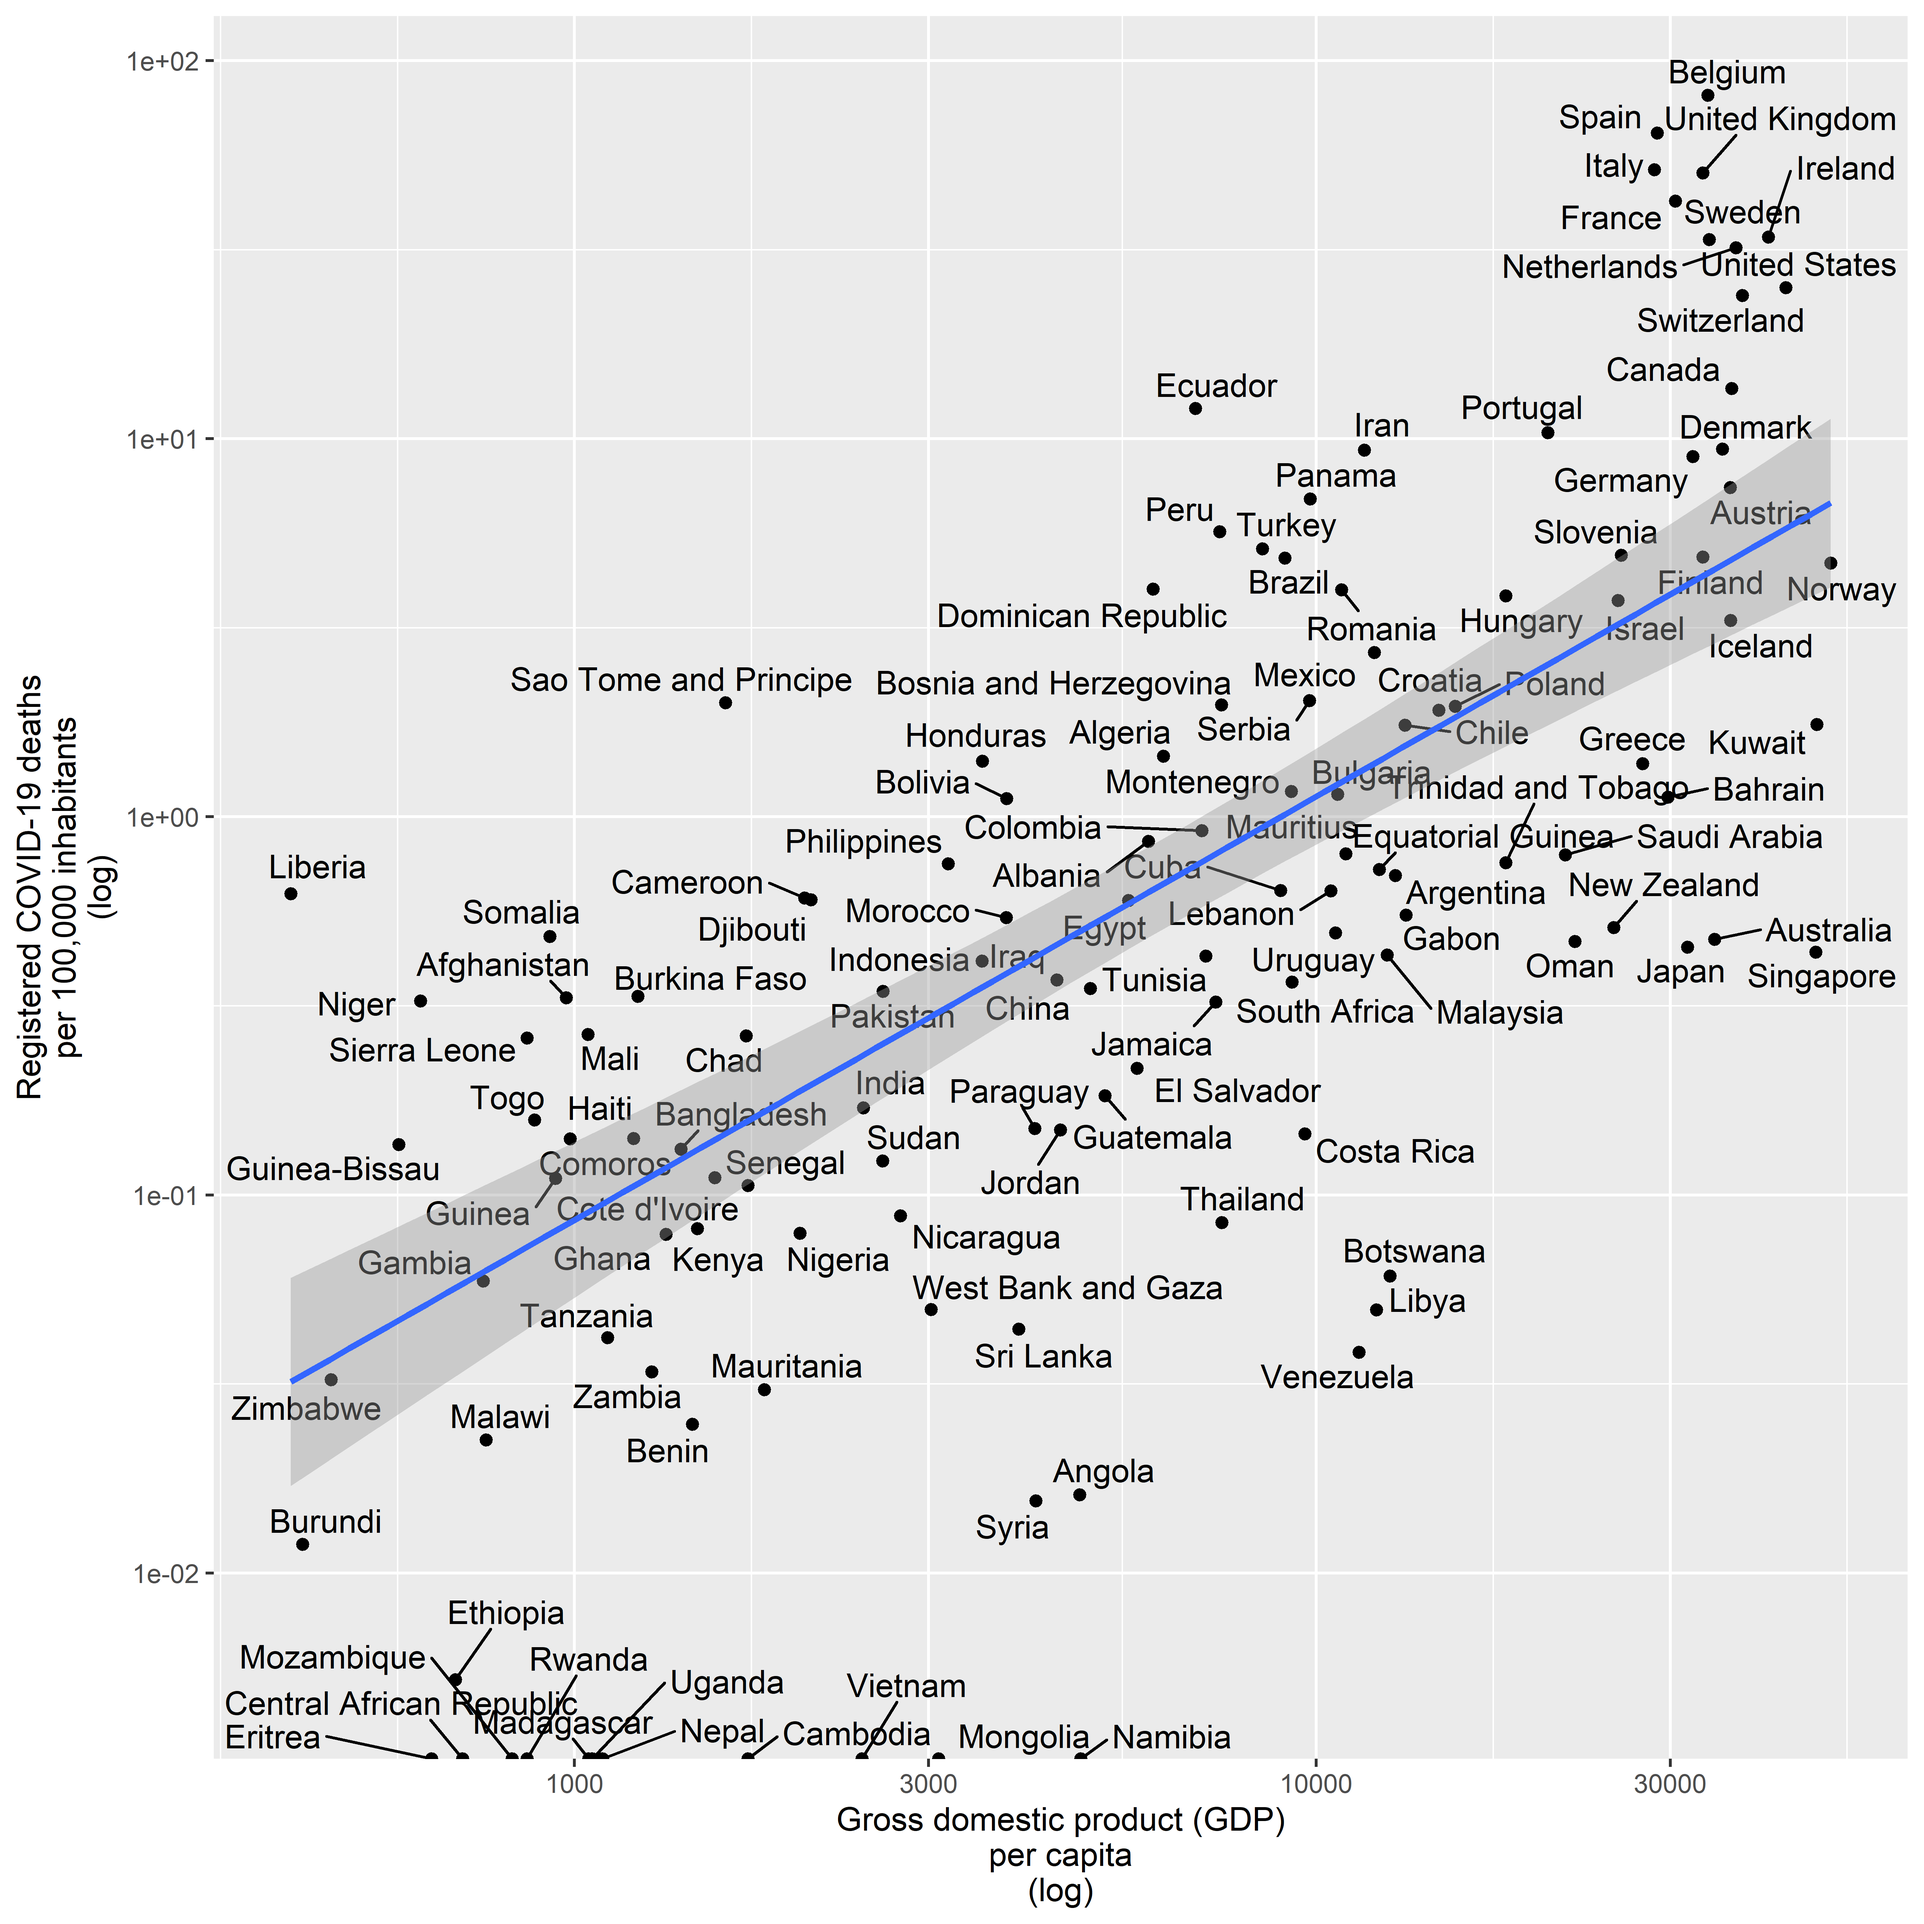
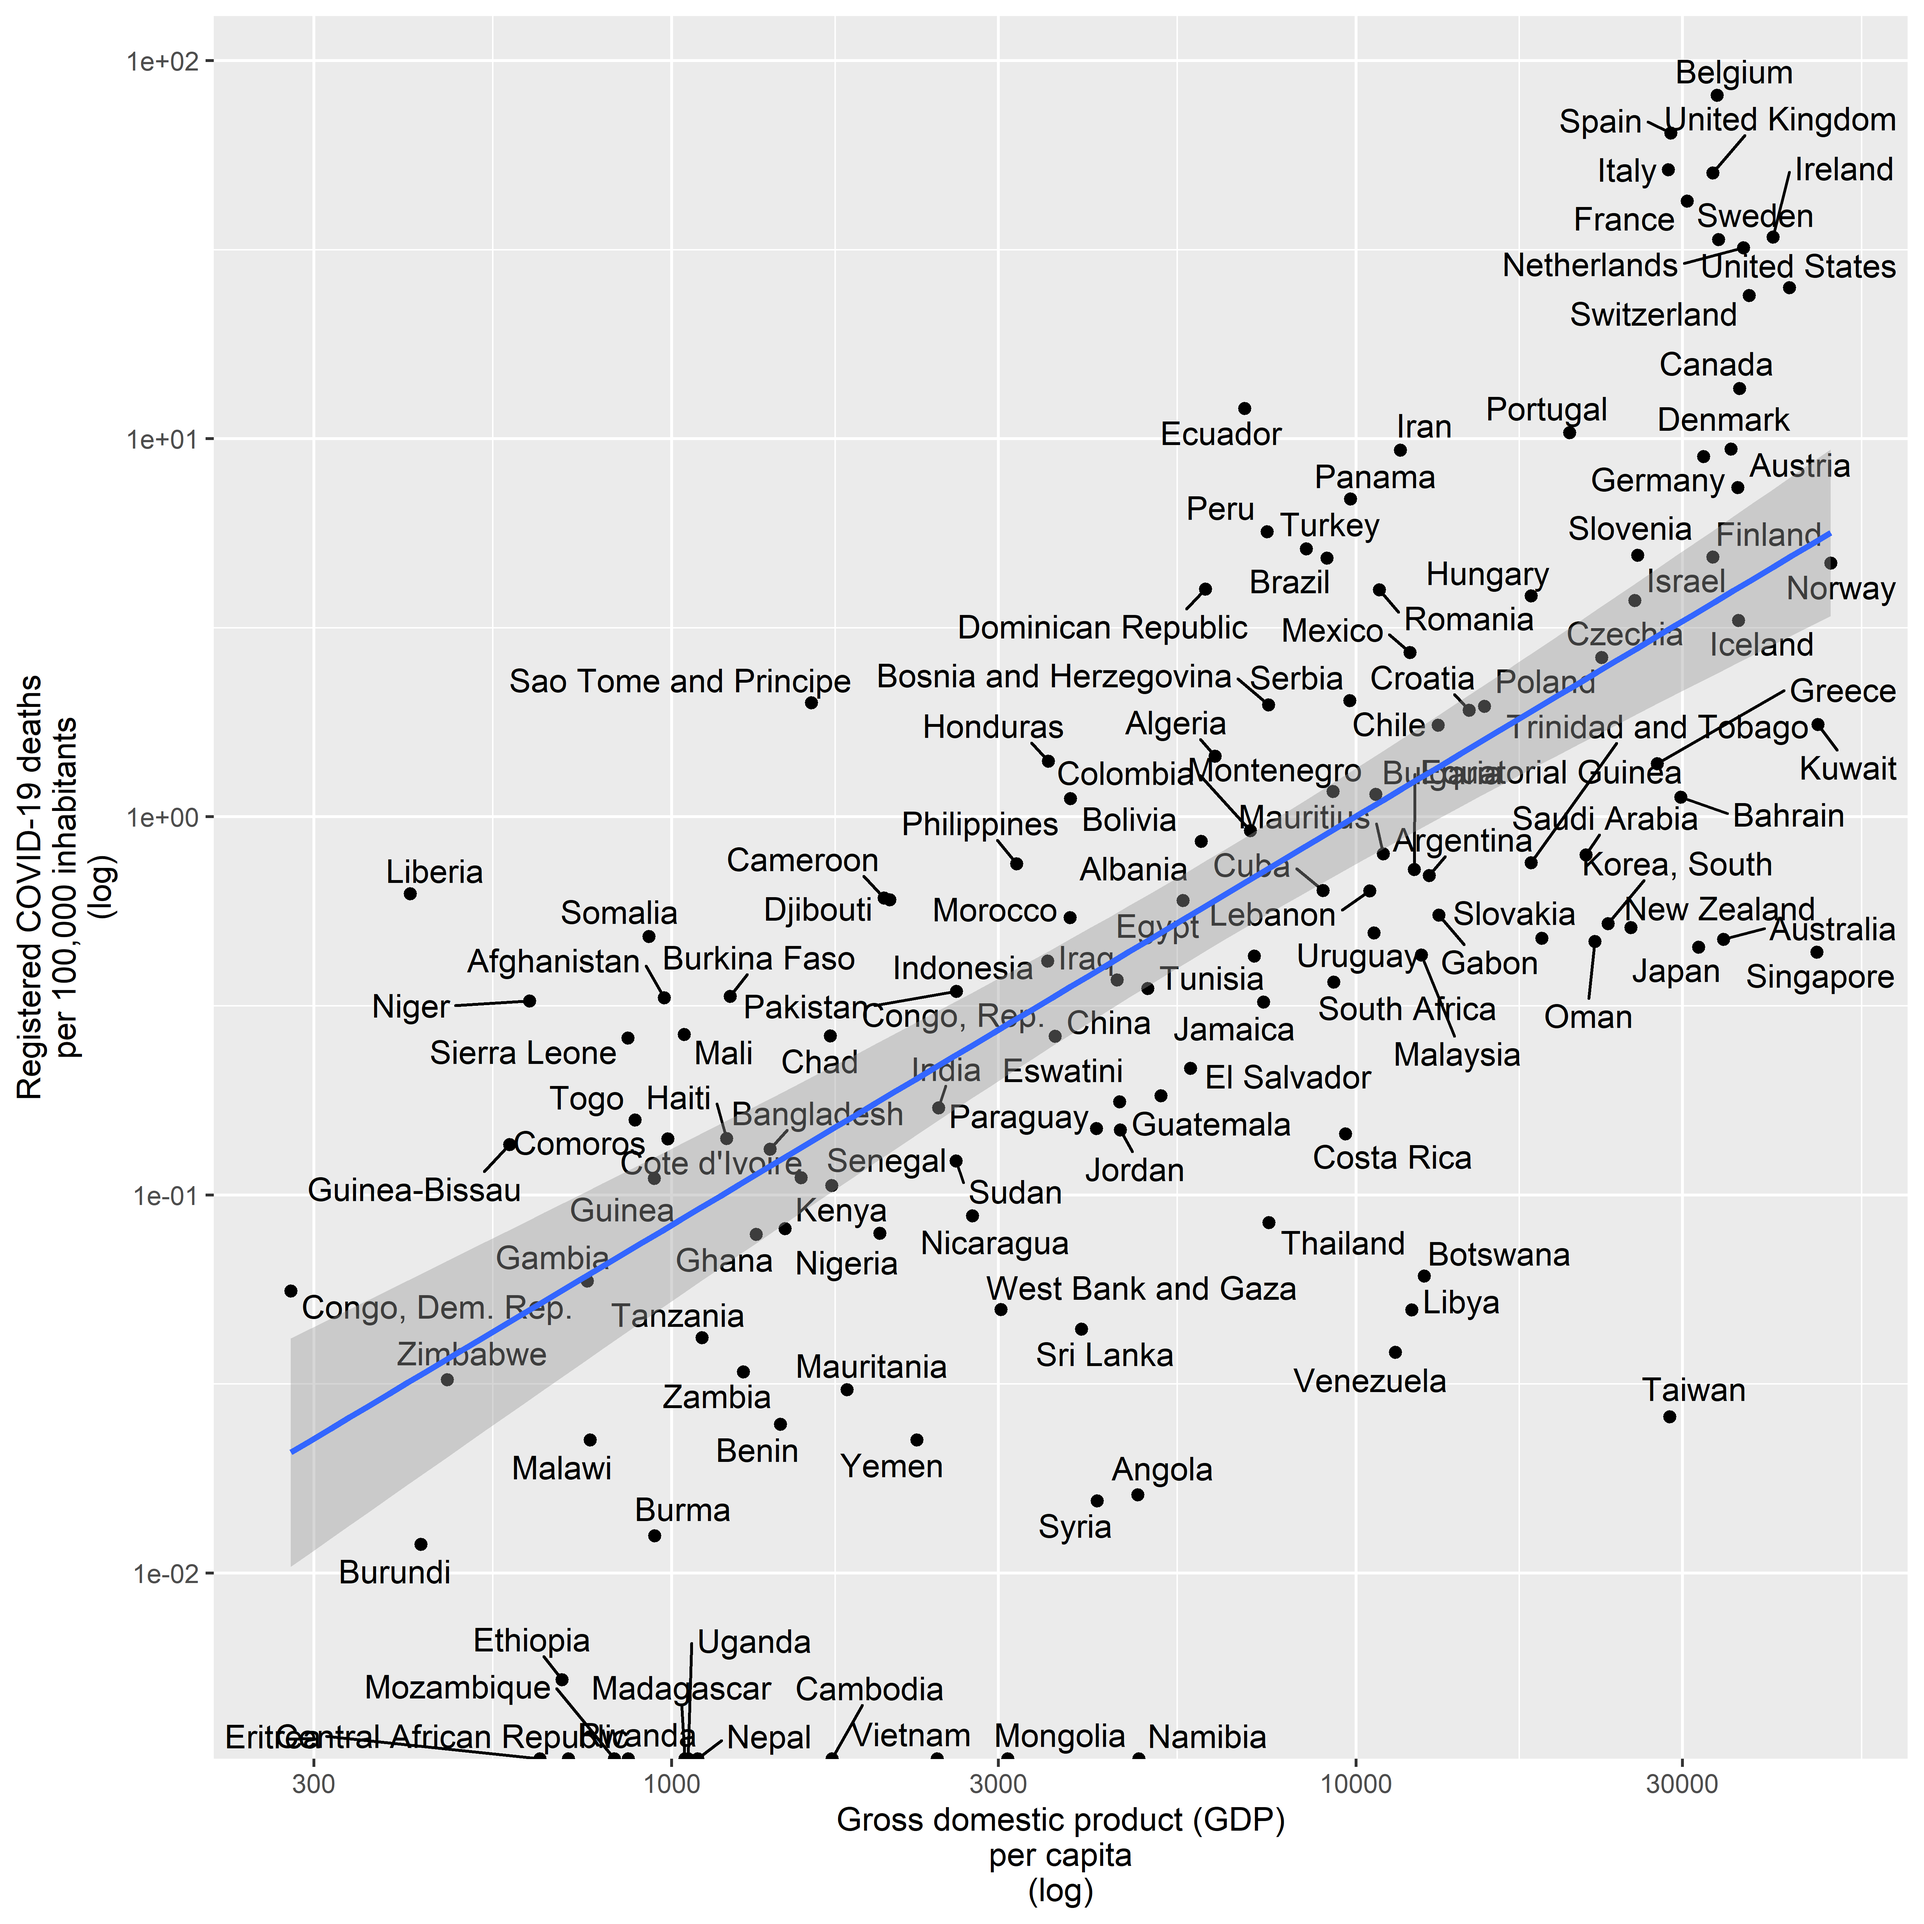
Shortened data preparation; harmonization of mis-matching country names.

diff --git a/Deaths_by_Country/README.md b/Deaths_by_Country/README.md
@@ -2,7 +2,7 @@ Registered COVID-19 Deaths by Country
 ================
 Tommi Suvitaival, <tommi.raimo.leo.suvitaival@regionh.dk>, Steno
 Diabetes Center Copenhagen
-2020-05-14
+2020-05-15
 
 # Introduction
 
@@ -24,45 +24,10 @@ library( magrittr )
 ``` r
 # View( gapminder::gapminder )
 
-data.gm <-
-  by(
-    data = gapminder::gapminder,
-    INDICES = gapminder::gapminder$"country",
-    FUN =
-      function( x ) {
-        unlist( x[ which.max( x$"year" ), ] )
-      }
-  )
-
-data.gm <-
-  simplify2array(
-    x = data.gm,
-    higher = FALSE
-  )
-
-data.gm <- t( data.gm )
-
-data.gm[ , "country" ] <- rownames( data.gm )
-
-data.gm <-
-  data.frame(
-    data.gm,
-    stringsAsFactors = FALSE
-  )
-
-data.gm[ , -1 ] <-
-  apply(
-    X = data.gm[ , -1 ],
-    MAR = 2,
-    FUN = as.numeric
-  )
-
-data.gm$"continent" <-
-  factor(
-    x = data.gm$"continent",
-    levels = 1:5,
-    labels = c( "Africa", "Americas", "Asia", "Europe", "Oceania" )
-  )
+data.gm <- 
+  gapminder::gapminder %>% 
+    dplyr::group_by( country ) %>% 
+    dplyr::top_n( n = 1, year ) # suggested by helgebergo
 ```
 
 ## Coronavirus
@@ -80,6 +45,34 @@ data.covid <-
 
 data.covid$"Country.Region"[ data.covid$"Country.Region" == "US" ] <-
   "United States"
+```
+
+## Harmonize
+
+``` r
+data.gm$"country" <- as.character( data.gm$"country" )
+
+data.gm[ data.gm$"country" == "Myanmar", "country" ] <- "Burma"
+data.gm[ data.gm$"country" == "Czech Republic", "country" ] <- "Czechia"
+data.gm[ data.gm$"country" == "Korea, Rep.", "country" ] <- "Korea, South"
+data.gm[ data.gm$"country" == "Slovak Republic", "country" ] <- "Slovakia"
+data.gm[ data.gm$"country" == "Swaziland", "country" ] <- "Eswatini"
+data.gm[ data.gm$"country" == "Yemen, Rep.", "country" ] <- "Yemen"
+
+data.covid[ 
+  data.covid$"Country.Region" == "Congo (Kinshasa)",
+  "Country.Region"
+  ] <- 
+  "Congo, Dem. Rep."
+
+data.covid[ 
+  data.covid$"Country.Region" == "Congo (Brazzaville)", 
+  "Country.Region"
+  ] <- 
+  "Congo, Rep."
+
+data.covid[ data.covid$"Country.Region" == "Taiwan*", "Country.Region" ] <- 
+  "Taiwan"
 ```
 
 ## Integrate
@@ -141,18 +134,18 @@ summary(
     ## 
     ## Residuals:
     ##    Min     1Q Median     3Q    Max 
-    ## -10400  -1743  -1657  -1541  71143 
+    ## -10381  -1639  -1536  -1460  71237 
     ## 
     ## Coefficients:
     ##              Estimate Std. Error t value Pr(>|t|)  
-    ## (Intercept) 1.628e+03  7.567e+02   2.152   0.0333 *
-    ## pop         9.600e-06  4.686e-06   2.049   0.0426 *
+    ## (Intercept) 1.506e+03  7.079e+02   2.127   0.0352 *
+    ## pop         9.694e-06  4.529e-06   2.141   0.0341 *
     ## ---
     ## Signif. codes:  0 '***' 0.001 '**' 0.01 '*' 0.05 '.' 0.1 ' ' 1
     ## 
-    ## Residual standard error: 8194 on 126 degrees of freedom
-    ## Multiple R-squared:  0.03223,    Adjusted R-squared:  0.02455 
-    ## F-statistic: 4.197 on 1 and 126 DF,  p-value: 0.04258
+    ## Residual standard error: 7929 on 135 degrees of freedom
+    ## Multiple R-squared:  0.03283,    Adjusted R-squared:  0.02566 
+    ## F-statistic: 4.582 on 1 and 135 DF,  p-value: 0.0341
 
 ### By Continent
 
@@ -221,19 +214,19 @@ summary(
     ## lm(formula = Deaths_per_100k ~ lifeExp, data = data)
     ## 
     ## Residuals:
-    ##     Min      1Q  Median      3Q     Max 
-    ## -10.475  -6.253  -2.868   1.839  71.301 
+    ##    Min     1Q Median     3Q    Max 
+    ## -9.843 -5.876 -2.705  1.750 71.846 
     ## 
     ## Coefficients:
     ##              Estimate Std. Error t value Pr(>|t|)    
-    ## (Intercept) -21.84710    6.05001  -3.611 0.000439 ***
-    ## lifeExp       0.39678    0.08876   4.470 1.72e-05 ***
+    ## (Intercept) -20.18839    5.60556  -3.601 0.000443 ***
+    ## lifeExp       0.36904    0.08247   4.475 1.61e-05 ***
     ## ---
     ## Signif. codes:  0 '***' 0.001 '**' 0.01 '*' 0.05 '.' 0.1 ' ' 1
     ## 
-    ## Residual standard error: 11.82 on 126 degrees of freedom
-    ## Multiple R-squared:  0.1369, Adjusted R-squared:   0.13 
-    ## F-statistic: 19.98 on 1 and 126 DF,  p-value: 1.721e-05
+    ## Residual standard error: 11.51 on 135 degrees of freedom
+    ## Multiple R-squared:  0.1292, Adjusted R-squared:  0.1227 
+    ## F-statistic: 20.03 on 1 and 135 DF,  p-value: 1.609e-05
 
 ### By Continent
 
@@ -310,18 +303,18 @@ summary(
     ## 
     ## Residuals:
     ##      Min       1Q   Median       3Q      Max 
-    ## -1.53462 -0.44811  0.02877  0.47057  1.29105 
+    ## -2.08411 -0.42733  0.02937  0.48061  1.33608 
     ## 
     ## Coefficients:
     ##               Estimate Std. Error t value Pr(>|t|)    
-    ## (Intercept)    -4.4256     0.4073  -10.87   <2e-16 ***
-    ## gdpPercap_log   1.1199     0.1061   10.56   <2e-16 ***
+    ## (Intercept)    -4.3229     0.3992  -10.83   <2e-16 ***
+    ## gdpPercap_log   1.0812     0.1041   10.39   <2e-16 ***
     ## ---
     ## Signif. codes:  0 '***' 0.001 '**' 0.01 '*' 0.05 '.' 0.1 ' ' 1
     ## 
-    ## Residual standard error: 0.6528 on 115 degrees of freedom
-    ## Multiple R-squared:  0.4922, Adjusted R-squared:  0.4878 
-    ## F-statistic: 111.5 on 1 and 115 DF,  p-value: < 2.2e-16
+    ## Residual standard error: 0.6742 on 124 degrees of freedom
+    ## Multiple R-squared:  0.4653, Adjusted R-squared:  0.461 
+    ## F-statistic: 107.9 on 1 and 124 DF,  p-value: < 2.2e-16
 
 ``` r
 summary(
@@ -337,20 +330,20 @@ summary(
     ## lm(formula = Deaths_per_100k_log ~ gdpPercap_log + lifeExp, data = data.model)
     ## 
     ## Residuals:
-    ##     Min      1Q  Median      3Q     Max 
-    ## -1.5508 -0.4156  0.0075  0.5034  1.3289 
+    ##      Min       1Q   Median       3Q      Max 
+    ## -2.08045 -0.41306  0.01341  0.49102  1.34078 
     ## 
     ## Coefficients:
     ##                Estimate Std. Error t value Pr(>|t|)    
-    ## (Intercept)   -4.496847   0.409399 -10.984  < 2e-16 ***
-    ## gdpPercap_log  0.921127   0.182358   5.051 1.68e-06 ***
-    ## lifeExp        0.012119   0.009062   1.337    0.184    
+    ## (Intercept)   -4.389353   0.401448 -10.934  < 2e-16 ***
+    ## gdpPercap_log  0.897337   0.175953   5.100 1.25e-06 ***
+    ## lifeExp        0.011256   0.008698   1.294    0.198    
     ## ---
     ## Signif. codes:  0 '***' 0.001 '**' 0.01 '*' 0.05 '.' 0.1 ' ' 1
     ## 
-    ## Residual standard error: 0.6506 on 114 degrees of freedom
-    ## Multiple R-squared:  0.5001, Adjusted R-squared:  0.4913 
-    ## F-statistic: 57.01 on 2 and 114 DF,  p-value: < 2.2e-16
+    ## Residual standard error: 0.6724 on 123 degrees of freedom
+    ## Multiple R-squared:  0.4725, Adjusted R-squared:  0.4639 
+    ## F-statistic: 55.08 on 2 and 123 DF,  p-value: < 2.2e-16
 
 ``` r
 ggplot2::ggplot(
